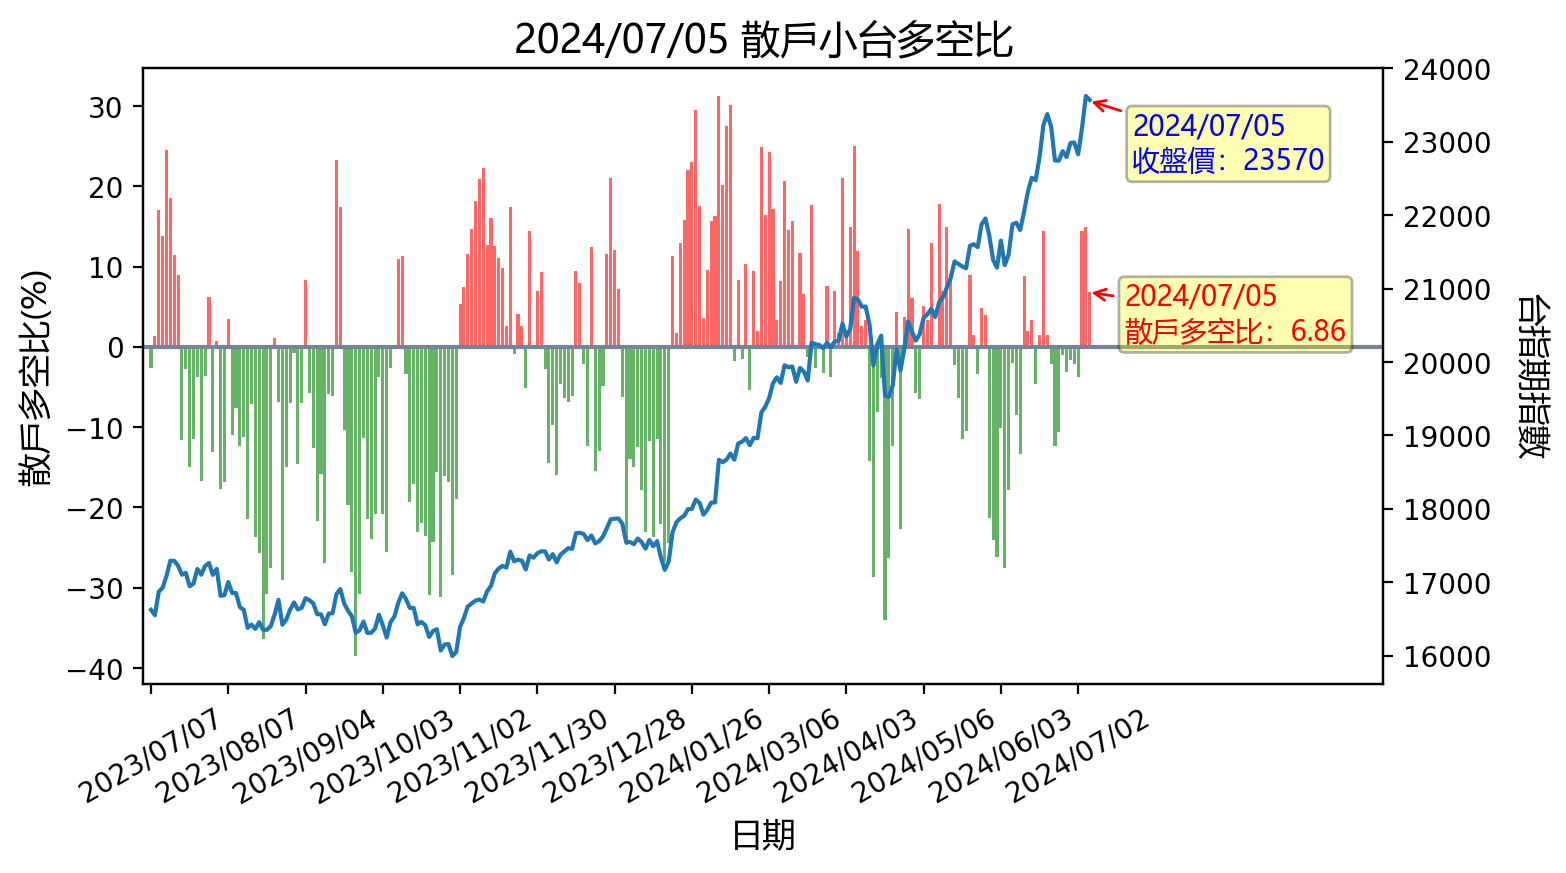
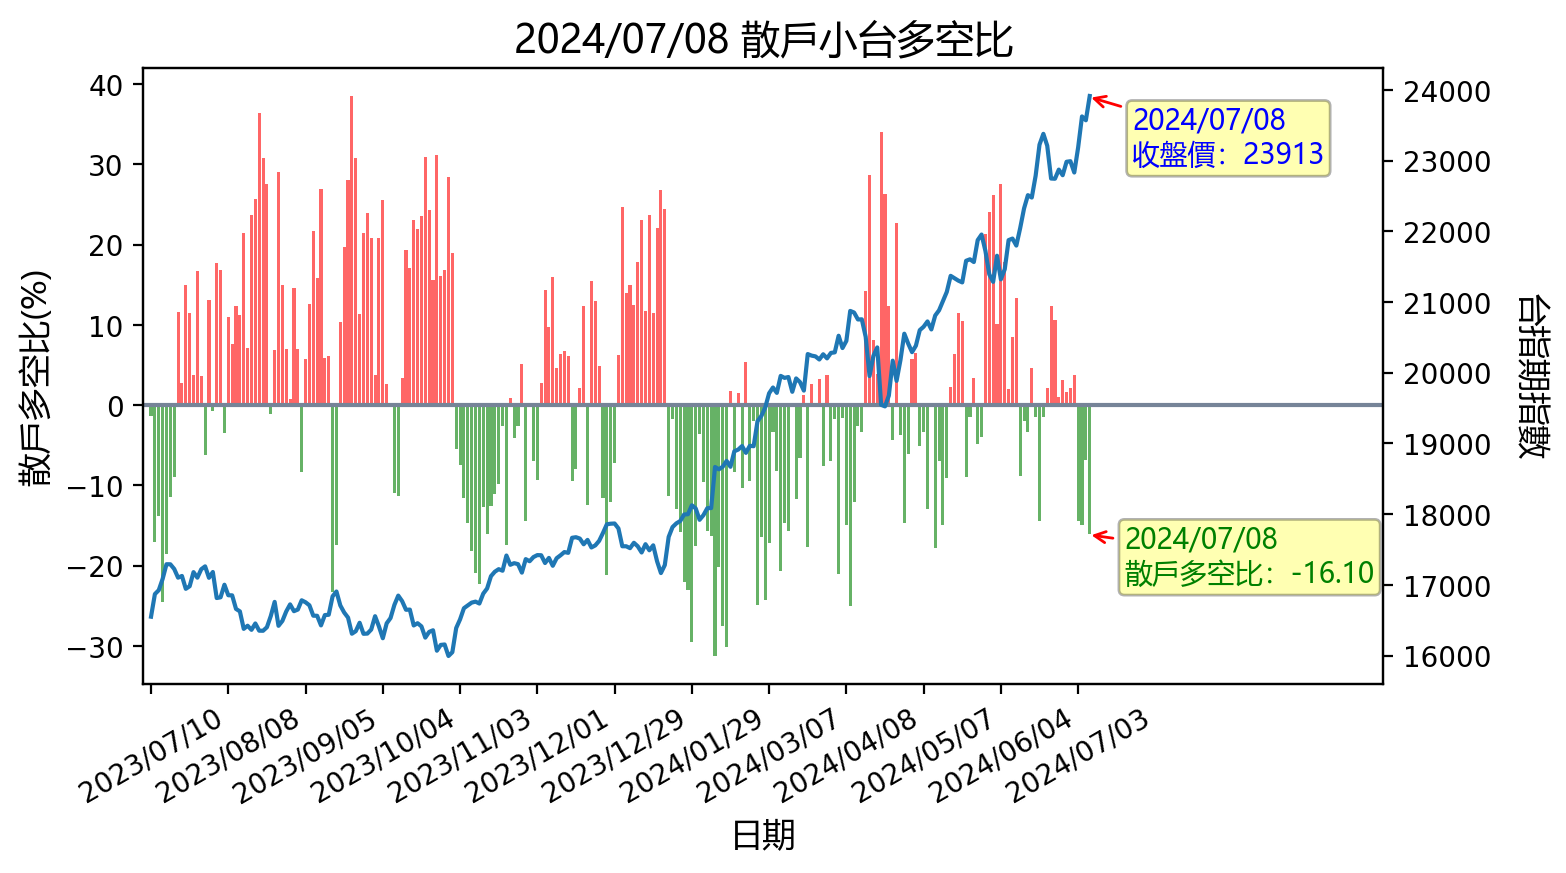
更新時間: Mon Jul  8 16:11:52 CST 2024

diff --git a/README.md b/README.md
@@ -1,12 +1,12 @@
-## 20240707 台指期「預估換倉成本」
+## 20240708 台指期「預估換倉成本」
 ![](images/txfcost.png)
 
-## 20240707 台指期「散戶小台多空比」
+## 20240708 台指期「散戶小台多空比」
 ![](images/bbiri.png)
 
-## 20240707 台指選擇權「Put/Call Ratios」
+## 20240708 台指選擇權「Put/Call Ratios」
 ![](images/pcratio.png)
 
-## 20240707 台指期「大額交易人」
+## 20240708 台指期「大額交易人」
 ![](images/blocktrade.png)
 
